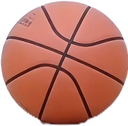
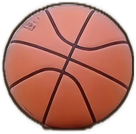
art: outline and padding polish for new sprites

diff --git a/tools/art_polish.py b/tools/art_polish.py
@@ -1,0 +1,15 @@
+from PIL import Image, ImageFilter
+def outline(im,px=3,color=(58,36,24,240)):
+    a=im.split()[3]; g=a.filter(ImageFilter.MaxFilter(px*2+1)).filter(ImageFilter.GaussianBlur(0.5))
+    o=Image.new('RGBA',im.size,color); o.putalpha(g)
+    return Image.alpha_composite(o,im)
+# bunny: add breathing padding then outline
+im=Image.open('assets/enemies/bunny_big.png').convert('RGBA')
+pad=Image.new('RGBA',(im.width+10,im.height+10),(0,0,0,0)); pad.alpha_composite(im,(5,5))
+pad.thumbnail((256,256),Image.LANCZOS); pad.save('assets/enemies/bunny_big.png')
+# cheese and basketball subtle outline
+for f in ['cheese_cut','basketball_cut']:
+    im=Image.open('assets/enemies/%s.png'%f).convert('RGBA')
+    canvas=Image.new('RGBA',(im.width+8,im.height+8),(0,0,0,0)); canvas.alpha_composite(im,(4,4))
+    canvas=outline(canvas,2); canvas.save('assets/enemies/%s.png'%f)
+    print(f, canvas.size)

diff --git a/tools/art_audit.py b/tools/art_audit.py
@@ -1,0 +1,8 @@
+from PIL import Image
+files=['giant_big','bunny_big','milk_big','angel_big','car_big','guard_big','pirate_big','cheese_cut','basketball_cut']
+for f in files:
+    im=Image.open('assets/enemies/%s.png'%f).convert('RGBA'); a=im.split()[3]
+    px=im.load(); w,h=im.size
+    corners=[px[0,0][3],px[w-1,0][3],px[0,h-1][3],px[w-1,h-1][3]]
+    dark=sum(1 for x in range(w) for y in range(h) if px[x,y][3]>200 and px[x,y][0]<80 and px[x,y][1]<60)
+    print(f, im.size, 'corners',corners, 'darkpx',dark, 'alpha_edges', sum(1 for x in range(w) if a.getpixel((x,0))>0))
